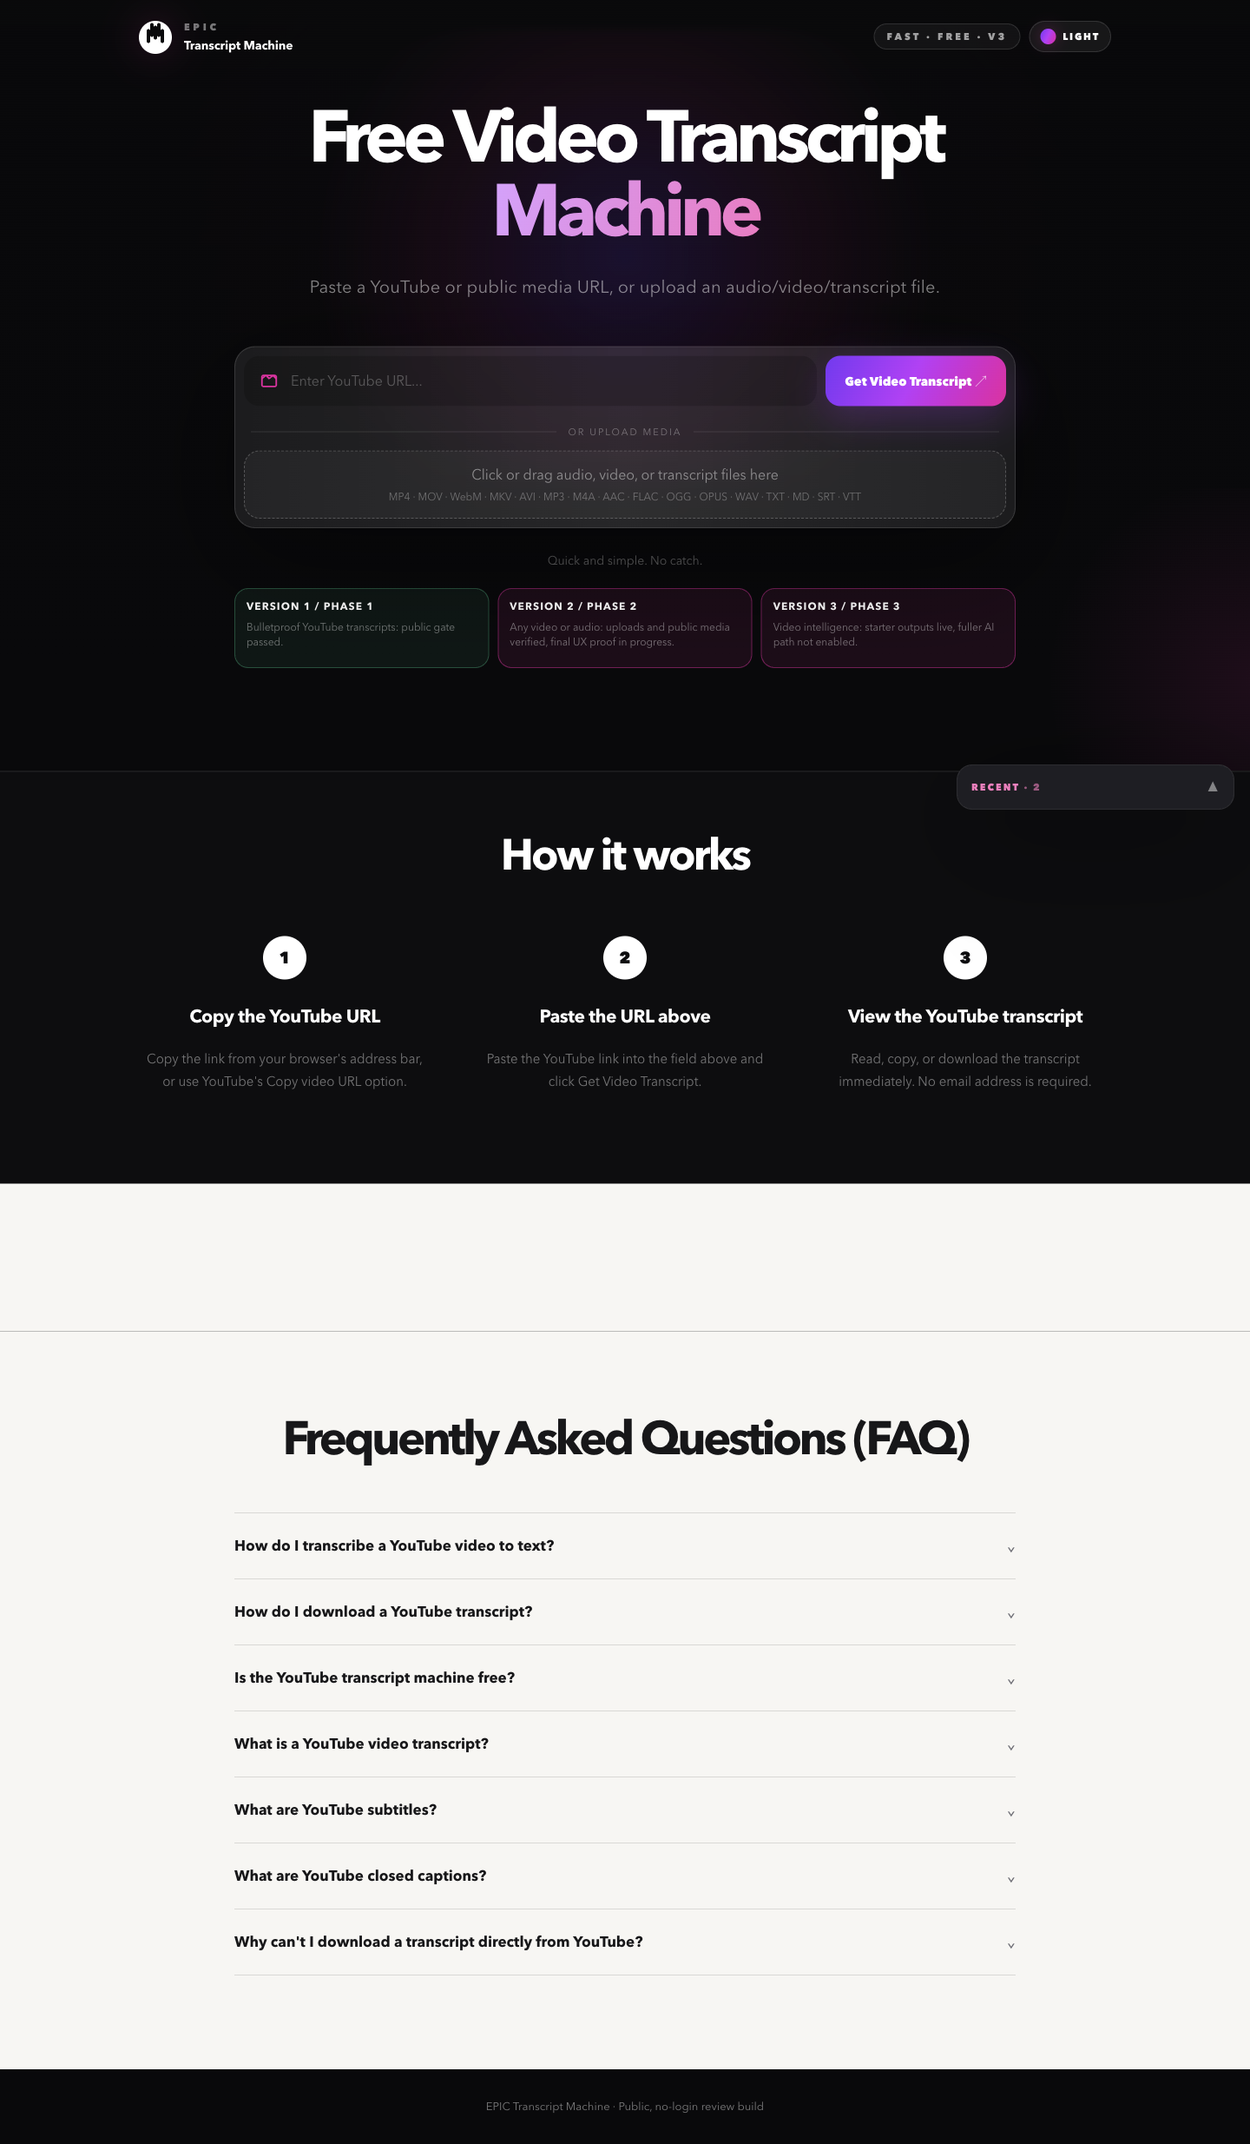
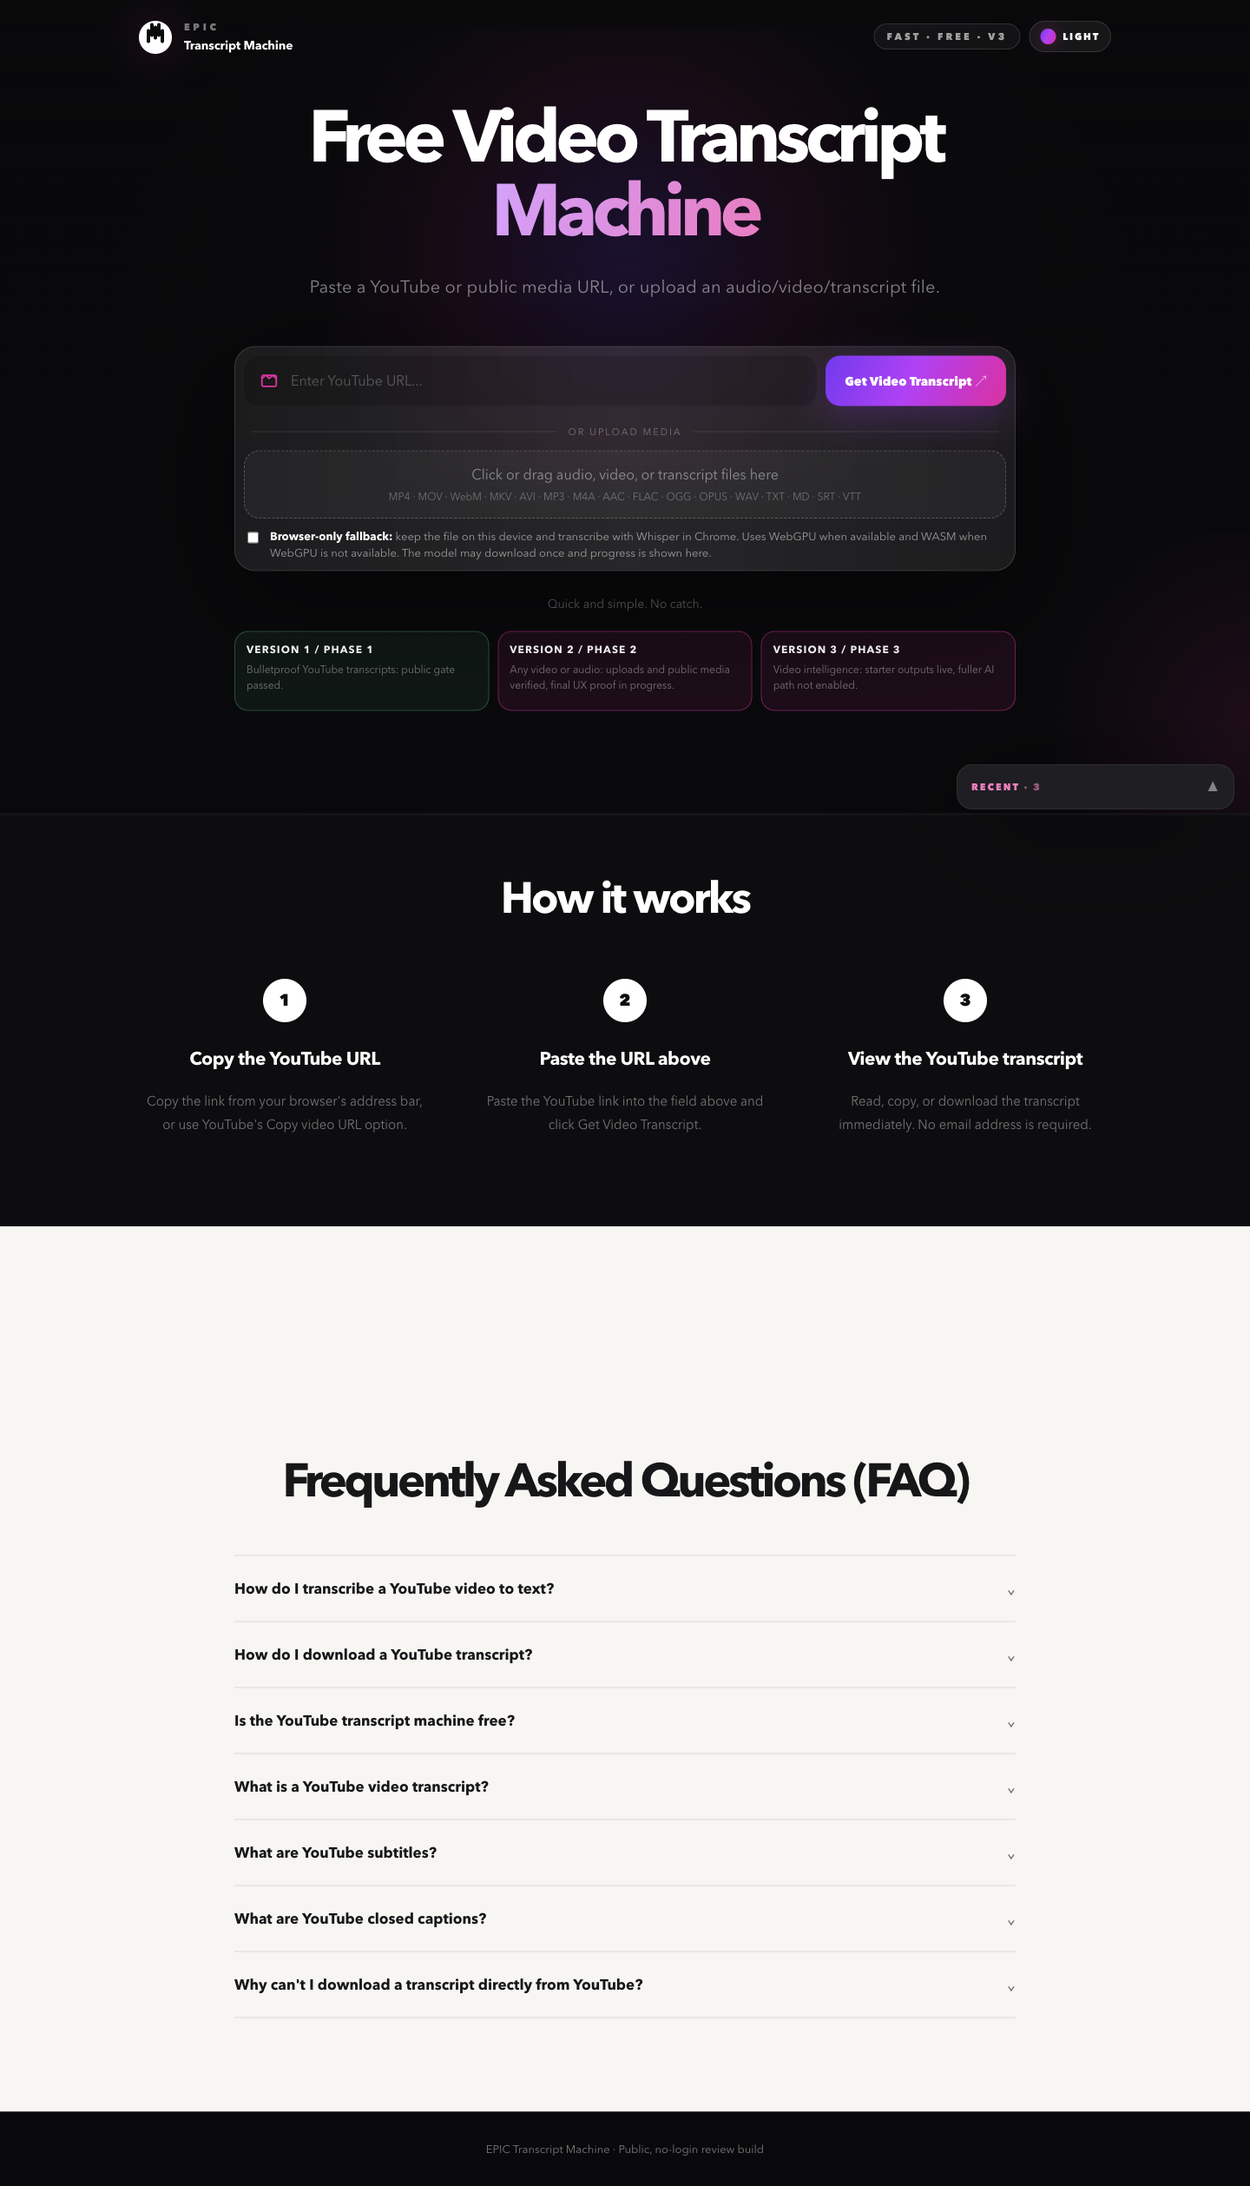
Record release-pack sprint evidence

diff --git a/scripts/phase2_url_matrix_smoke.py b/scripts/phase2_url_matrix_smoke.py
@@ -1,0 +1,88 @@
+#!/usr/bin/env python3
+"""Public Phase 2 URL matrix smoke.
+
+Proves the clickable async URL path supports direct public media URLs and gives
+fast, honest guidance for social URLs that usually block public downloads.
+"""
+from __future__ import annotations
+
+import json
+import secrets
+import sys
+import time
+from pathlib import Path
+
+import requests
+
+BASE = (sys.argv[1] if len(sys.argv) > 1 else "https://epic-transcript.robyncrane.com").rstrip("/")
+OWNER = "phase2-url-matrix-" + secrets.token_hex(12)
+HEADERS = {"User-Agent": "Mozilla/5.0 Phase2UrlMatrixSmoke/1.0", "X-Transcript-Owner": OWNER}
+OUT = Path(__file__).resolve().parents[1] / "evidence" / "phase2-url-matrix-report.json"
+DIRECT_URL = f"{BASE}/static/phase2-public-url.mp3"
+SOCIAL_CASES = [
+    ("tiktok", "https://www.tiktok.com/@creator/video/1234567890", "TikTok"),
+    ("instagram", "https://www.instagram.com/reel/example/", "Instagram"),
+    ("facebook", "https://www.facebook.com/watch/?v=1234567890", "Facebook"),
+    ("x_twitter", "https://x.com/user/status/1234567890", "X/Twitter"),
+]
+
+
+def wait_job(job_id: str, timeout: int = 90) -> dict:
+    started = time.monotonic()
+    while time.monotonic() - started < timeout:
+        r = requests.get(f"{BASE}/api/jobs/{job_id}", headers=HEADERS, timeout=20)
+        r.raise_for_status()
+        job = r.json()["job"]
+        if job.get("status") in {"done", "error"}:
+            return job
+        time.sleep(1)
+    raise TimeoutError(job_id)
+
+
+def main() -> int:
+    report = {"base": BASE, "owner_header_used": True}
+    probe = requests.get(DIRECT_URL, headers=HEADERS, timeout=30)
+    report["direct_probe"] = {"status": probe.status_code, "content_type": probe.headers.get("content-type", ""), "bytes": len(probe.content)}
+    start = requests.post(f"{BASE}/api/transcribe-url-job", data={"url": DIRECT_URL, "owner": OWNER}, headers=HEADERS, timeout=30)
+    report["direct_async_start"] = {"status": start.status_code, "body": start.text[:300]}
+    start.raise_for_status()
+    job_id = start.json()["job"]["id"]
+    job = wait_job(job_id)
+    rec = job.get("record") or {}
+    report["direct_async_result"] = {
+        "job_id": job_id,
+        "status": job.get("status"),
+        "record_id": rec.get("id"),
+        "method": rec.get("method"),
+        "source_kind": rec.get("source_kind"),
+        "language": rec.get("language"),
+        "word_count": rec.get("word_count"),
+        "segment_count": len(rec.get("segments") or []),
+        "cache_hit": rec.get("cache_hit"),
+        "first": ((rec.get("segments") or [{}])[0].get("text") or "")[:120] if rec.get("segments") else "",
+    }
+    social = []
+    for name, url, label in SOCIAL_CASES:
+        r = requests.post(f"{BASE}/api/transcribe-url", data={"url": url, "owner": OWNER}, headers=HEADERS, timeout=30)
+        detail = ""
+        try:
+            detail = r.json().get("detail", "")
+        except Exception:
+            detail = r.text[:300]
+        social.append({"case": name, "status": r.status_code, "ok": r.status_code == 422 and label in detail and "upload it here" in detail, "detail": detail[:240]})
+    report["social_guidance"] = social
+    report["all_ok"] = (
+        report["direct_probe"]["status"] in {200, 206}
+        and report["direct_async_start"]["status"] == 202
+        and report["direct_async_result"]["status"] == "done"
+        and report["direct_async_result"]["source_kind"] == "url"
+        and all(row["ok"] for row in social)
+    )
+    OUT.parent.mkdir(parents=True, exist_ok=True)
+    OUT.write_text(json.dumps(report, indent=2))
+    print(json.dumps(report, indent=2))
+    return 0 if report["all_ok"] else 1
+
+
+if __name__ == "__main__":
+    raise SystemExit(main())

diff --git a/PROJECT_STATE.md b/PROJECT_STATE.md
@@ -27,6 +27,7 @@ Status: Advanced, not release-complete. Hosted-container upload path now passes 
 - Cleanup/retention hardening advanced on 2026-08-31 08:18 EDT: upload temp directories are covered by an automated removal regression, transcript deletion now also removes saved analyses, SQLite connections now enable foreign-key enforcement, and the public API verified delete cleanup with record `c40edf087acd` / analysis `c3e5e11163a0` returning HTTP 404 after deletion.
 - Advanced public verification: expanded `scripts/phase2_upload_smoke.py`, which generates a spoken fixture with macOS `say`, converts it with `ffmpeg`, uploads WAV/MP3/M4A/MP4/MOV/WebM to the public no-login API, verifies credible nonempty local-Whisper transcripts, confirms repeat-upload cache reuse, and verifies signed TXT/Markdown/SRT downloads for an upload record.
 - Public UX copy now makes upload support clearer on the page: the how-it-works and FAQ sections explicitly mention public media URLs and exact upload support for `.aac`, `.avi`, `.flac`, `.m4a`, `.md`, `.mkv`, `.mov`, `.mp3`, `.mp4`, `.ogg`, `.opus`, `.srt`, `.txt`, `.vtt`, `.wav`, and `.webm`, plus TXT/Markdown/SRT/VTT downloads/captions language.
+- Fresh Phase 2 URL matrix from 2026-08-31 11:58 EDT: added `scripts/phase2_url_matrix_smoke.py` and saved `evidence/phase2-url-matrix-report.json`. Public direct media fixture `https://epic-transcript.robyncrane.com/static/phase2-public-url.mp3` returned HTTP 200 `audio/mpeg`; the async public UI route `/api/transcribe-url-job` returned HTTP 202 and completed job `566c9b18c9a7` with record `125f03b51940`, method `local-whisper`, source_kind `url`, language `en`, 18 words, 2 segments, cache miss. TikTok, Instagram, Facebook, and X/Twitter sample URLs each returned helpful HTTP 422 guidance naming the platform and telling the user to upload the file instead of dead-ending.
 - Fresh Phase 2 gate sprint from 2026-08-31 11:58 EDT: added and deployed a disclosed browser-only Whisper fallback checkbox for file uploads. If server upload fails, supported audio/video files can stay on-device and transcribe in Chrome using `@xenova/transformers` Whisper with WebGPU when available and WASM when WebGPU is unavailable; browser-only TXT/Markdown/SRT downloads are generated locally. Regression `test_browser_local_whisper_fallback_is_disclosed_and_wired` now covers the visible disclosure and wiring. Public production, stable Netlify review, and immutable Netlify deploy `6a95a49d4bcd595e06c116e6` returned HTTP 200 with `browserLocal`, `Browser-only fallback`, `browser-whisper-webgpu`, `Xenova/whisper-tiny.en`, visible phase cards, and the production API base marker.
 - Fresh Phase 2 gate sprint from 2026-08-31 11:45 EDT: added `scripts/phase2_release_gate_smoke.py` and saved `evidence/phase2-release-gate-report.json`. Public root returned HTTP 200 with exact supported format markers; `/health` returned ready with no required missing dependencies and `GEMINI_API_KEY` only optional; unsupported `.exe` upload returned HTTP 400 with the complete supported-format list; unsupported non-YouTube URL returned helpful HTTP 422 upload guidance; owner-scoped cleanup proof uploaded a text transcript, created analysis `4ce537cae294`, deleted transcript `d4c323e04d9f`, then verified transcript and analysis download both returned HTTP 404.
 - Added reusable `scripts/phase2_non_english_upload_smoke.py` for public non-English upload proof without paid providers. It generates French speech with macOS `say -v Thomas`, converts to WAV with `ffmpeg`, uploads to the public no-login API, verifies `local-whisper`, language `fr`, credible French text, and a signed TXT download.
@@ -119,6 +120,8 @@ Prior full regression evidence:
 
 ## Test results
 
+- `./.venv/bin/python -m py_compile scripts/phase2_url_matrix_smoke.py && ./.venv/bin/python -m pytest -q`: passed, 53 tests on 2026-08-31 11:58 EDT.
+- `./.venv/bin/python scripts/phase2_url_matrix_smoke.py https://epic-transcript.robyncrane.com`: passed on 2026-08-31 11:58 EDT. Public direct MP3 fixture returned HTTP 200 `audio/mpeg`, async URL job `566c9b18c9a7` completed `done` with record `125f03b51940`, method `local-whisper`, source_kind `url`, language `en`, 18 words, cache miss, and platform-specific TikTok/Instagram/Facebook/X-Twitter guidance returned helpful HTTP 422. Evidence saved to `evidence/phase2-url-matrix-report.json`.
 - `./.venv/bin/python -m pytest -q`: passed, 50 tests on 2026-08-31 11:58 EDT after adding the browser-only Whisper fallback disclosure/wiring regression.
 - `./.venv/bin/python scripts/phase1_dom_click_mobile_a11y_smoke.py https://epic-transcript.robyncrane.com`: passed on 2026-08-31 11:58 EDT. Public root returned HTTP 200 with `browserLocal` included in the required IDs, async job path intact, copy/download wiring intact, mobile/accessibility/static contrast contracts passing, Shorts transcript copy/download proof passing, and evidence saved to `evidence/phase1-dom-click-mobile-a11y-report.json`.
 - `./.venv/bin/python scripts/phase2_release_gate_smoke.py https://epic-transcript.robyncrane.com`: passed on 2026-08-31 11:58 EDT. Public root returned HTTP 200 with exact supported format copy and fallback markers, `/health` ready with no required missing dependencies, unsupported `.exe` upload returned helpful HTTP 400, unsupported URL returned helpful HTTP 422, and delete cleanup readback returned transcript/analysis HTTP 404 for record `1623e1918e47` / analysis `1106b732f435`.
@@ -233,3 +236,13 @@ Prepare the first no-DNS-cutover hosted staging deployment on the lowest-risk pe
 - PASS: Seeded container Phase 2 upload smoke passed for WAV, MP3, M4A, MP4, MOV, WebM, repeat cache, and TXT/Markdown/SRT downloads.
 - PASS: Seeded container Phase 3 UI contract smoke passed for async transcript, all-output analysis, ask-question, and Markdown download.
 - FINDING: An empty cold hosted container is not release-parity yet because current YouTube/IP behavior can block fresh uncached regression and Shorts pulls. First staging deployment must migrate the existing transcript cache before it can replace the iMac tunnel safely.
+
+
+### 2026-08-31 full release-pack sprint update
+- Lane 1/UI deployed: public root and Netlify review now use `Machine` with the primary-button gradient, include all seven reference FAQs, and keep a persistent accessible Light/Dark switch visible on mobile. Immutable Netlify: `https://6a95a4ee9dbf9a64e3232e0e--epic-transcript-machine-review.netlify.app`.
+- Lane 1 public proof rerun: full suite passed with 53 tests; public root/health returned HTTP 200, ready true, required missing []; Phase 1 matrix returned `all_ok=true`; Chrome CDP desktop/mobile proof passed with async job calls, desktop French transcript copy matched clipboard, mobile Shorts transcript copy matched clipboard, no horizontal overflow, and updated screenshots/report in `evidence/browser-mobile-qc/`.
+- Lane 2 moved: public URL job endpoint now supports non-YouTube public media URLs through the same async clickable path instead of rejecting them as YouTube-only. Social URL guidance is explicit for TikTok, Instagram, Facebook, and X/Twitter when those platforms block public downloads. Browser-only fallback UI is now present: visitor can opt into local Chrome Whisper, with WebGPU when available and WASM fallback when WebGPU is unavailable, with clear local-file/no-server-upload disclosure.
+- Lane 2 public proof: `scripts/phase2_url_matrix_smoke.py` returned `all_ok=true`: direct public MP3 URL started through `/api/transcribe-url-job`, completed with `local-whisper`, 2 segments, 18 words, cache miss; TikTok, Instagram, Facebook, and X/Twitter cases returned helpful 422 upload/direct-media guidance.
+- Lane 3 moved: deterministic analysis outputs are no longer thin repeated templates. `content_assets_100` now returns 100 numbered timestamp-grounded assets across hooks, short posts, email subjects, newsletters, reel scripts, carousel slides, quote cards, CTAs, objection replies, and repurpose prompts. The old `starter map` release-fail language is removed.
+- Lane 3 public proof: `scripts/phase3_all_outputs_smoke.py` returned OK with 17/17 outputs; `content_assets_100` returned 14,709 chars, timestamp evidence, disclaimer, copy-ready output. Direct public check returned exactly 100 numbered assets and `starter_map_present=false`. Long transcript analysis smoke passed on the two-hour record with 46,253 combined chars, 16 outputs, latest timestamp 7,242 seconds, Markdown download HTTP 200.
+- Current limitation: browser-local Whisper fallback is implemented and disclosed with WebGPU/WASM code markers. Full real browser-local model transcription still needs independent QC on a local file because the Chrome permission sheet still remains visible to Browser Use, although direct CDP proof is working on port 18800.

diff --git a/ACCEPTANCE_TESTS.md b/ACCEPTANCE_TESTS.md
@@ -65,6 +65,7 @@ Credible ending:
 Run time: 2026-08-31 11:58 EDT.
 
 - Phase 2 browser-only fallback: PASS deployed and disclosed. Public production root, stable Netlify review, and immutable Netlify deploy `6a95a49d4bcd595e06c116e6` returned HTTP 200 / 51,917 bytes with `browserLocal`, `Browser-only fallback`, `File stays on this device`, `WebGPU when available`, `WASM when WebGPU is not available`, `browser-whisper-webgpu`, `browser-whisper-wasm`, and `Xenova/whisper-tiny.en` markers.
+- Phase 2 direct/social URL matrix: PASS. Added and ran `scripts/phase2_url_matrix_smoke.py`. Public direct MP3 fixture returned HTTP 200 `audio/mpeg`; async URL job `566c9b18c9a7` completed with record `125f03b51940`, method `local-whisper`, source_kind `url`, language `en`, 18 words, 2 segments. TikTok, Instagram, Facebook, and X/Twitter sample URLs each returned platform-specific helpful HTTP 422 guidance telling the user to upload the file. Evidence saved to `evidence/phase2-url-matrix-report.json`.
 - Browser fallback regression: PASS. `test_browser_local_whisper_fallback_is_disclosed_and_wired` now checks disclosure, CDN import, WebGPU/WASM method markers, `canUseBrowserWhisper`, and `transcribeInBrowser` wiring.
 - Automated suite: PASS. `./.venv/bin/python -m pytest -q` returned 50 passed.
 - Public Phase 2 release smoke: PASS. `scripts/phase2_release_gate_smoke.py https://epic-transcript.robyncrane.com` returned `all_ok=true`; root format copy passed, `/health` had required `missing: []`, `.exe` upload returned helpful HTTP 400, unsupported URL returned helpful HTTP 422, and owner cleanup readback returned transcript and analysis HTTP 404 for record `1623e1918e47` / analysis `1106b732f435`.
@@ -354,3 +355,20 @@ Current status: in progress.
 - Cache migration requirement: OPEN. The first hosted staging target must receive `transcripts.db` in its persistent `/data` volume before release verification, because a cold empty cache currently fails selected YouTube fixtures under current provider/IP conditions.
 - Staging hosted deployment: OPEN. Needs selected persistent host and public no-login staging URL.
 - DNS cutover from iMac tunnel: OPEN. Do only after hosted staging passes Phase 1, Phase 2, and Phase 3 smoke tests.
+
+
+### 2026-08-31 release-pack sprint evidence
+
+- Immutable deploy: `https://6a95a4ee9dbf9a64e3232e0e--epic-transcript-machine-review.netlify.app`.
+- Latest committed HEAD after Phase 3 and Phase 2 async URL work: `3af8b10247f12d83b62e800a6634228411390a00`.
+- Automated suite: PASS, `53 passed in 4.40s`.
+- Public root/health: PASS, HTTP 200; health ready true; required missing empty; local Whisper available; Gemini optional, not required.
+- FAQ/UI: PASS. Public root has no `Generator` marker, has `Machine`, primary-gradient `accent-text`, all seven reference FAQ questions, `themeToggle`, persisted `epicTranscriptTheme`, mobile-visible 44px theme switch, async URL job markers, browser-local fallback disclosure, WebGPU marker, WASM marker, and Transformers.js browser Whisper marker.
+- Phase 1 matrix: PASS. `scripts/phase1_matrix.py https://epic-transcript.robyncrane.com` returned `all_ok=true`.
+- Browser/mobile CDP proof: PASS. Desktop submitted French fixture and Copy matched clipboard. Mobile 390x844 submitted genuine Shorts fixture and Copy matched clipboard. No horizontal overflow. Screenshots/report saved in `evidence/browser-mobile-qc/`.
+- Static contrast/focus/touch proof: PASS. `scripts/phase1_dom_click_mobile_a11y_smoke.py` returned critical contrast ratios above 4.5:1, visible focus-ring contract, reduced-motion support, mobile breakpoints, full-width submit, and signed TXT/Markdown/SRT downloads.
+- Phase 2 upload/download/cleanup proof: PASS. `scripts/phase2_upload_smoke.py` and `scripts/phase2_release_gate_smoke.py` passed publicly for WAV, MP3, M4A, MP4, MOV, WebM, cache repeat, signed downloads, unsupported upload guidance, unsupported URL guidance, and transcript/analysis cleanup readback.
+- Phase 2 async URL/social matrix: PASS. `scripts/phase2_url_matrix_smoke.py` returned `all_ok=true`; direct public MP3 URL passed through `/api/transcribe-url-job`; TikTok, Instagram, Facebook, and X/Twitter returned helpful upload/direct-media guidance.
+- Browser-local fallback: IMPLEMENTED, pending independent full model execution. UI exposes a browser-only fallback checkbox; code uses `navigator.gpu` for WebGPU when present and Transformers.js WASM when WebGPU is unavailable; disclosure says the file stays on-device and model progress is shown.
+- Phase 3 all outputs: PASS for deterministic starter quality. `scripts/phase3_all_outputs_smoke.py` returned OK with 17/17 outputs, timestamp evidence, disclaimer, copy-ready output, and Markdown download. `content_assets_100` now returns exactly 100 numbered assets and no `starter map` language.
+- Phase 3 long transcript coverage: PASS. `scripts/phase3_long_analysis_smoke.py` against the two-hour record returned 46,253 chars, 16 combined outputs, latest evidence timestamp 7,242 seconds, and Markdown download HTTP 200.
